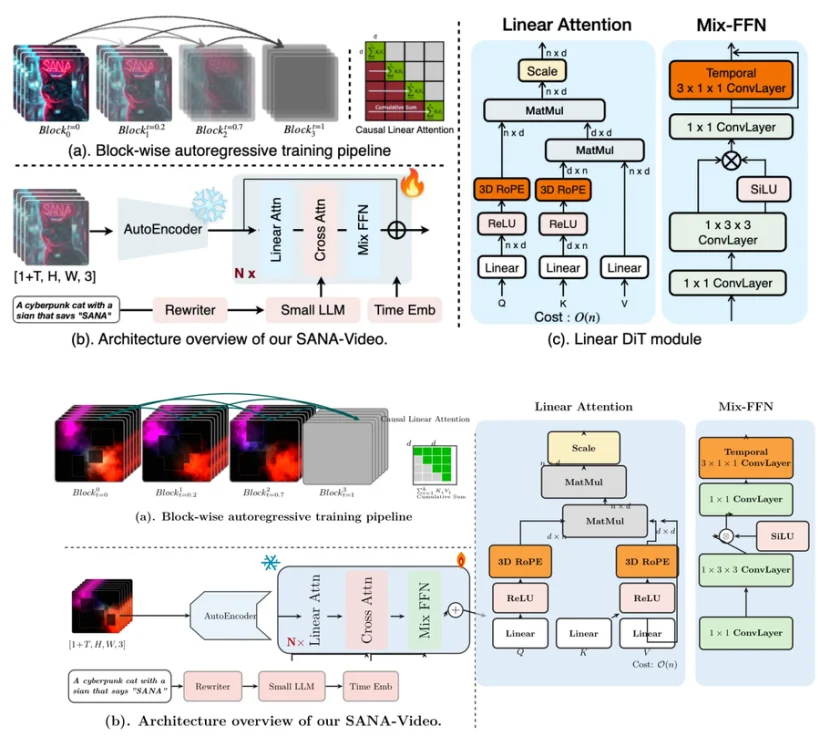
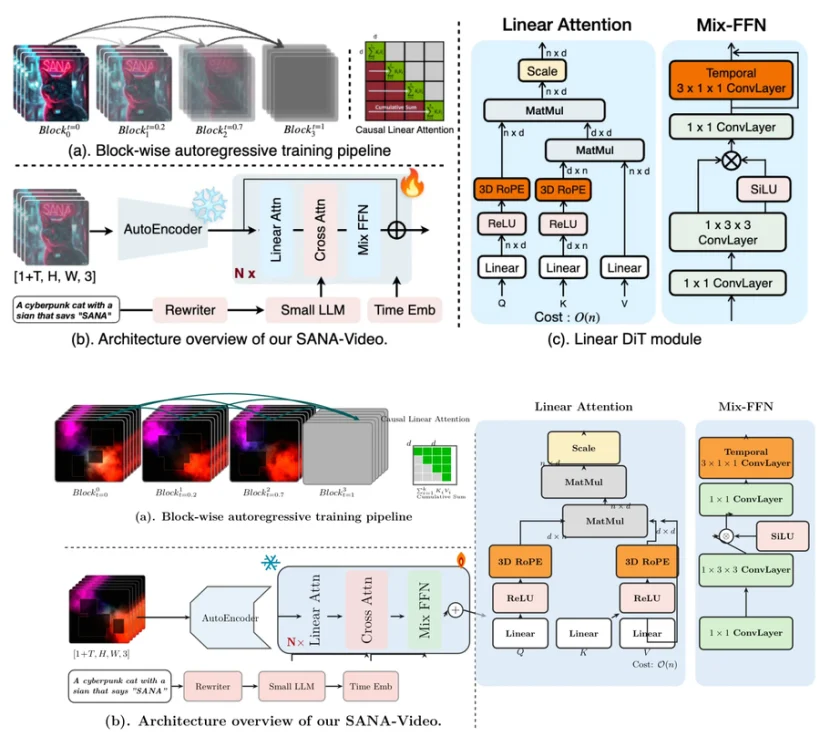
improve(replicas): 第三十七轮 —— 05 (b) 左半区放大
(b) 左区探针：原图 0.371 / 我的 0.202，行密度对比
  原图 0.10/0.47/0.78/0.66/0.21/0.21/0.35/0.18
  我的 0.04/0.09/0.45/0.43/0.04/0.26/0.23/0.09
→ 起始行和峰值都偏低，输入叠层与 AutoEncoder 都偏小

- 输入叠层 1.70 → 2.15cm，偏移 0.09 → 0.11，起点 3.55 → 3.15
- AutoEncoder 1.90 → 2.45 高、2.85 → 2.85 宽（上移并加高），字号 \small → \normalsize
- 修 AutoEncoder 压住 N× 框的问题（右边界收到 7.30）
- 连接箭头加粗 1.2 → 1.4pt

(b)左区墨迹 0.202 → 0.243
整图墨迹 0.500 → 0.508（原图 0.586）
row5 0.628→0.655、row7 0.526→0.571
AR 2.29（原图 2.30）

Changed region(s): [[0.061, 0.7802, 0.3354, 0.905]]

diff --git a/tools/figlab/reps_tikz.py b/tools/figlab/reps_tikz.py
@@ -118,26 +118,26 @@ def fig05() -> str:
 \node[font=\large\bfseries] at (7.40,8.15) {(a). Block-wise autoregressive training pipeline};
 
 % ================= (b) 整体架构 =================
-% 输入：叠层帧
-\begin{scope}[shift={(0.25,3.55)}]
+% 输入：叠层帧（放大到 2.15，起始行与原图对齐）
+\begin{scope}[shift={(0.15,3.15)}]
   \foreach \k in {5,4,3,2,1,0}{
-    \begin{scope}[shift={(\k*0.09,\k*0.09)}]
-      \clip[rounded corners=2pt] (0,0) rectangle (1.70,1.70);
+    \begin{scope}[shift={(\k*0.11,\k*0.11)}]
+      \clip[rounded corners=2pt] (0,0) rectangle (2.15,2.15);
       \node[anchor=south west, inner sep=0pt] at (0,0)
-        {\includegraphics[width=1.70cm,height=1.70cm]{input.png}};
-      \draw[black!60, line width=0.8pt, rounded corners=2pt] (0,0) rectangle (1.70,1.70);
+        {\includegraphics[width=2.15cm,height=2.15cm]{input.png}};
+      \draw[black!60, line width=0.8pt, rounded corners=2pt] (0,0) rectangle (2.15,2.15);
     \end{scope}
   }
 \end{scope}
-\node[font=\small] at (1.15,3.10) {$[1\!+\!T, H, W, 3]$};
+\node[font=\small] at (1.30,2.72) {$[1\!+\!T, H, W, 3]$};
 
-% AutoEncoder：左窄右宽八边形梯形
-\begin{scope}[shift={(4.45,3.30)}]
-  \fill[fxblue2] (0.00,0.50) -- (0.50,0.00) -- (2.85,0.00) -- (2.35,0.50) -- (2.35,1.40) -- (2.85,1.90) -- (0.50,1.90) -- (0.00,1.40) -- cycle;
-  \draw[black!70, line width=1.1pt] (0.00,0.50) -- (0.50,0.00) -- (2.85,0.00) -- (2.35,0.50) -- (2.35,1.40) -- (2.85,1.90) -- (0.50,1.90) -- (0.00,1.40) -- cycle;
-  \node[font=\small] at (1.42,0.95) {AutoEncoder};
+% AutoEncoder：左窄右宽八边形梯形（加高到 2.45、加宽到 3.15）
+\begin{scope}[shift={(4.45,2.95)}]
+  \fill[fxblue2] (0.00,0.64) -- (0.60,0.00) -- (2.85,0.00) -- (2.25,0.64) -- (2.25,1.81) -- (2.85,2.45) -- (0.60,2.45) -- (0.00,1.81) -- cycle;
+  \draw[black!70, line width=1.1pt] (0.00,0.64) -- (0.60,0.00) -- (2.85,0.00) -- (2.25,0.64) -- (2.25,1.81) -- (2.85,2.45) -- (0.60,2.45) -- (0.00,1.81) -- cycle;
+  \node[font=\normalsize] at (1.42,1.22) {AutoEncoder};
 \end{scope}
-\draw[arr, line width=1.2pt] (1.95,4.25) -- (4.45,4.25);
+\draw[arr, line width=1.4pt] (2.55,4.18) -- (4.45,4.18);
 
 % N x 大框：加高、深色描边
 \fill[fxblue, opacity=.62, rounded corners=12pt] (7.55,2.75) rectangle (14.35,6.20);
